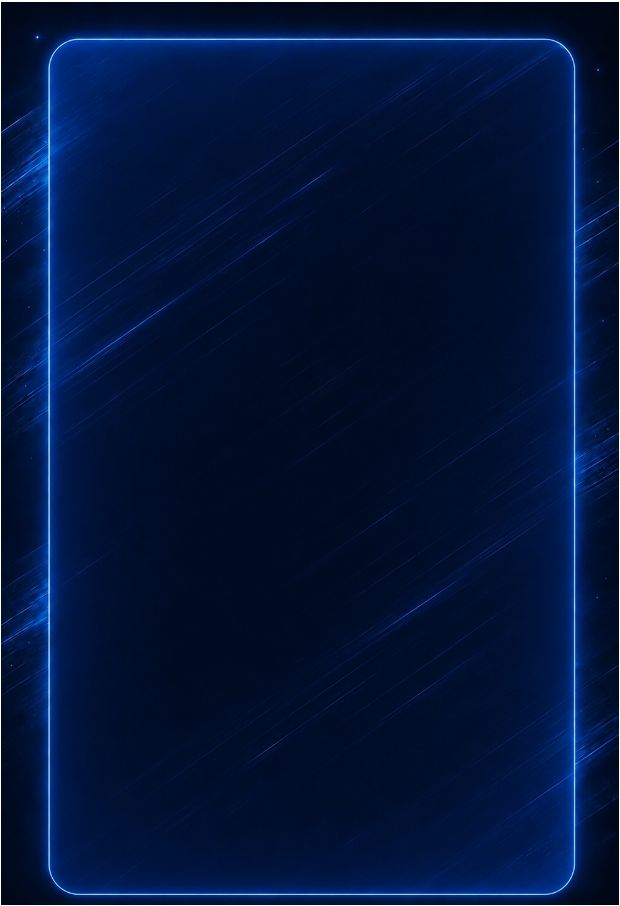
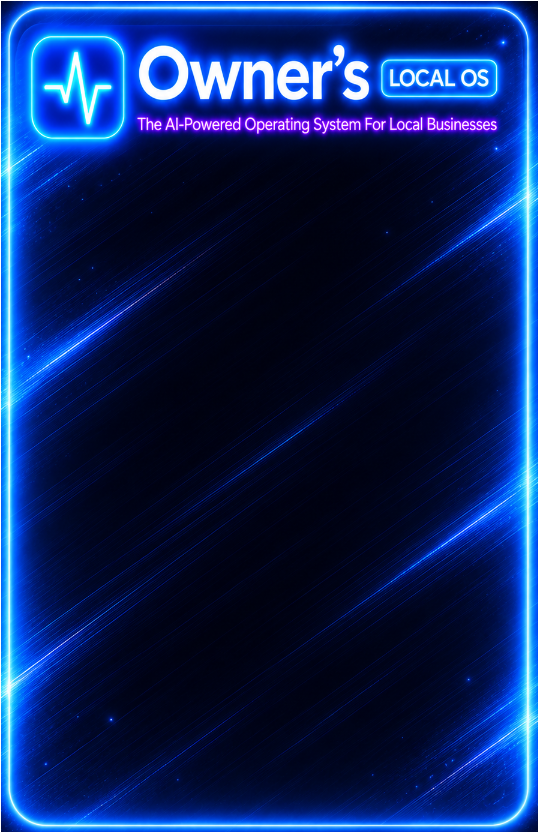
Dark mode login: new branded card art, shorter card shape
Replaced the blank dark login card/background images with the new
branded artwork (logo baked into the card itself) and sized the login
card container to that art's real proportions (539:833) for dark
mode specifically, instead of forcing it into light mode's tall
1440:3200 box. Buttons/fields render on top unchanged -- verified via
a live screenshot that nothing overlaps or needs repositioning.
Light mode is untouched pending a separate decision on shortening it.

Claude-Session: https://claude.ai/code/session_01RdWL8UYSyxGbZNXeiytFaq

diff --git a/src/App.tsx b/src/App.tsx
@@ -3498,12 +3498,13 @@ Access to full financial telemetry is restricted.`;
           <div className="w-full min-h-[100dvh] sm:min-h-0 flex flex-col items-center justify-center sm:py-6">
             
             {/* Aspect ratio bounding box for the login card */}
-            <div 
+            <div
               id="login-card-container"
               ref={containerRef}
-              className="relative max-w-[440px] aspect-[1440/3200] rounded-[32px] sm:rounded-[44px] overflow-hidden shadow-[0_20px_50px_rgba(8,112,184,0.2)] border border-blue-200/20 bg-cover bg-center select-none transition-transform duration-500 ease-out hover:scale-[1.015] focus-within:scale-[1.015]"
+              className="relative max-w-[440px] rounded-[32px] sm:rounded-[44px] overflow-hidden shadow-[0_20px_50px_rgba(8,112,184,0.2)] border border-blue-200/20 bg-cover bg-center select-none transition-transform duration-500 ease-out hover:scale-[1.015] focus-within:scale-[1.015]"
               style={{
                 width: "min(440px, calc(100% - 24px))",
+                aspectRatio: isDarkTheme ? "539 / 833" : "1440 / 3200",
                 backgroundImage: `url(${isDarkTheme ? darkLoginCard : CARD_BG_URL})`
               }}
             >
